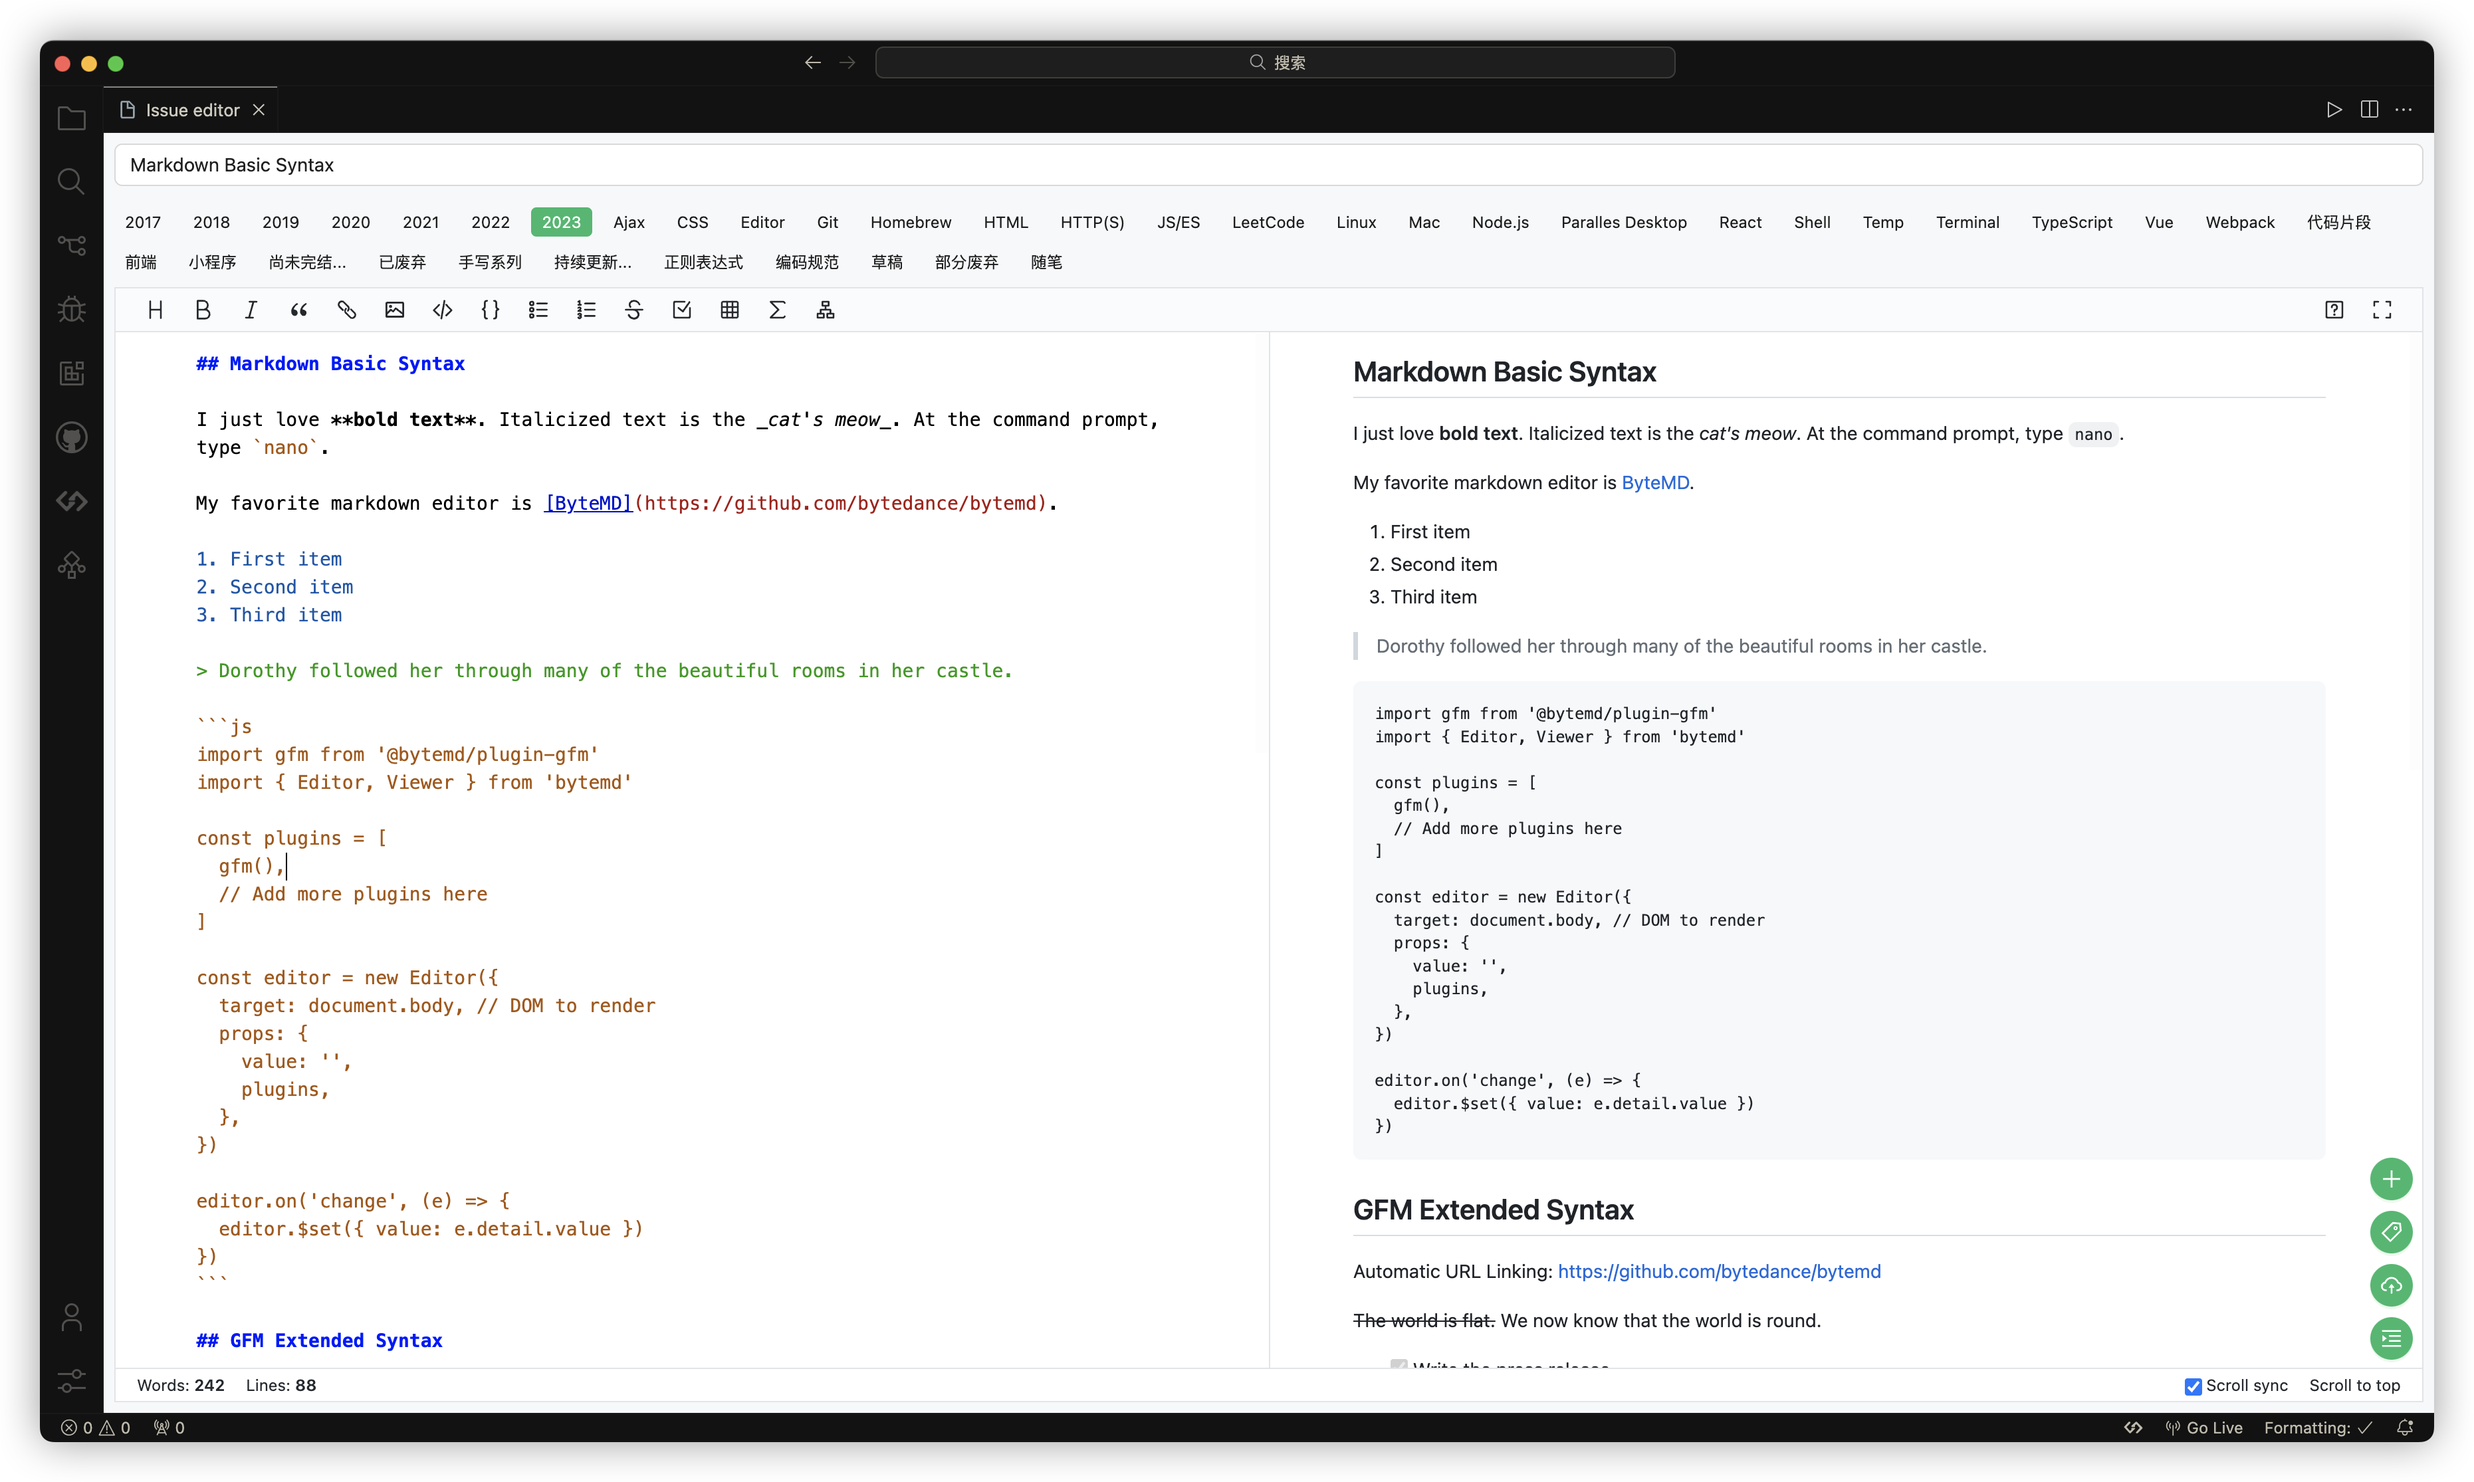
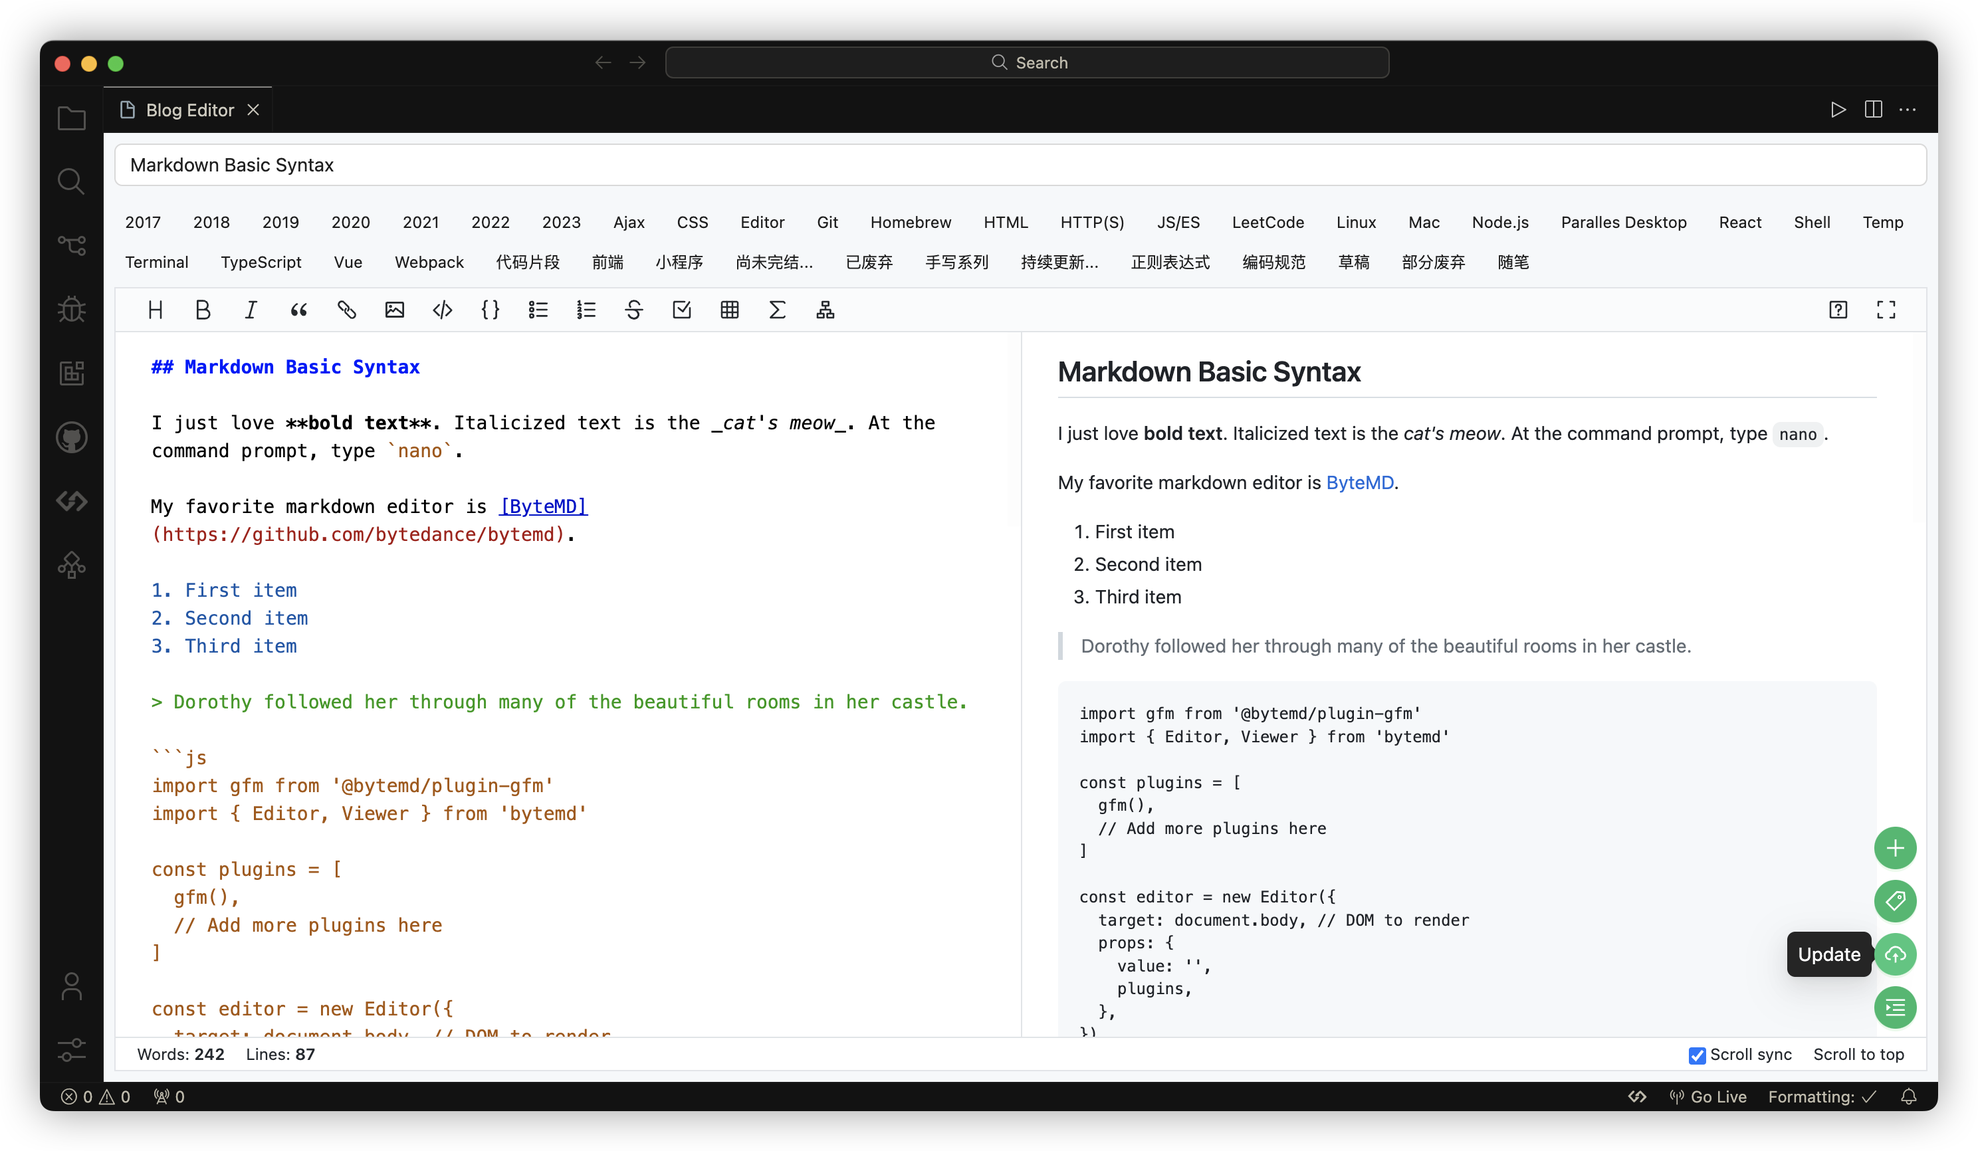
docs: update description

diff --git a/src/panels/edit-panel.js b/src/panels/edit-panel.js
@@ -80,7 +80,7 @@ export default class EditPanel {
     // If a webview panel does not already exist create and show a new one
     const panel = window.createWebviewPanel(
       EditPanel.viewType,
-      'Issue editor',
+      'Blog Editor',
       column || ViewColumn.One,
       getWebviewOptions(extensionUri)
     )

diff --git a/src/panels/multi-select-input.js b/src/panels/multi-select-input.js
@@ -13,7 +13,7 @@ export default async function multiStepInput() {
     return state
   }
 
-  const title = 'Add GitHub Info'
+  const title = 'Github Blogger Initialization'
 
   async function inputToken(input, state) {
     state.token = await input.showInputBox({

diff --git a/README.md b/README.md
@@ -1,6 +1,31 @@
 # Github Blogger
 
-Inspired by [Aaronphy/Blogger](https://github.com/Aaronphy/Blogger).
+> Inspired by [Aaronphy/Blogger](https://github.com/Aaronphy/Blogger).
+
+This is a plugin for VS Code that allows you to quickly create and manage Github Issues as blog posts. It uses the [Github REST API](https://docs.github.com/en/rest?apiVersion=2022-11-28) and [Github GraphQL API](https://docs.github.com/en/graphql) to manage your Issues, and all content created or updated through this plugin can be found in your Github repository.
+
+## Quick Start
+
+1. Prepare your [Github Personal Access Token](https://docs.github.com/en/authentication/keeping-your-account-and-data-secure/managing-your-personal-access-tokens).
+2. Open command palette by pressing `Command + Shift + P` (macOS) or `Ctrl + Shift + P` (Windows/Linux), and type `Config Github Blogger` to complete the initial configuration. Alternatively, you can add the following configuration directly to the `settings.json`.
+
+```json
+{
+  "github-blogger.token": "xxx", // Your GitHub Personal Access Token
+  "github-blogger.user": "xxx", // Your GitHub Username
+  "github-blogger.repo": "xxx" // Your GitHub Repository Name
+}
+```
+
+3. Open the command palette again and type `Open Github Blogger` to start writing your blog.
+
+## About
+
+The plugin mainly consists of the following libraries:
+
+- [ant-design](https://github.com/ant-design/ant-design) - Building the user interface
+- [bytemd](https://github.com/bytedance/bytemd) - Parsing markdown
+- [octokit.js](https://github.com/octokit/octokit.js) - Interacting with the Github API
 
 ![](./images/screenshot-1.png)
 ![](./images/screenshot-2.png)
